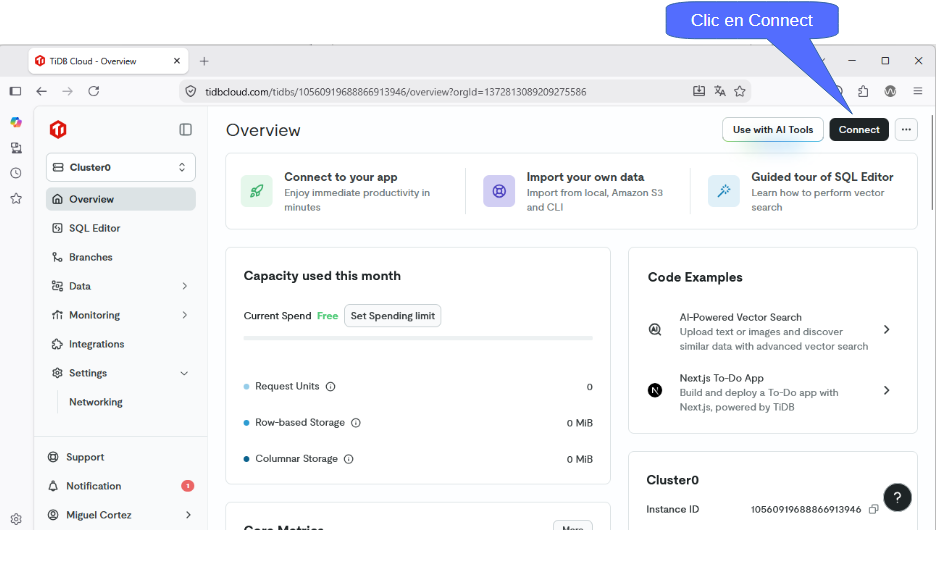
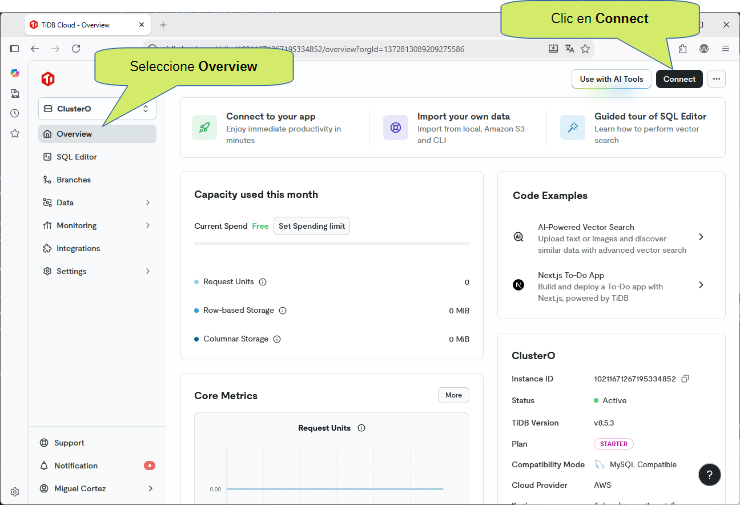
Actualización de 04_TiDBConfiguracionesBD.md

diff --git a/05_imagenes/04_TiDBConfiguracionesBD.md b/05_imagenes/04_TiDBConfiguracionesBD.md
@@ -4,15 +4,12 @@ Actualización: `23/09/2026`
 
 ## Paso 1. Crear un recurso  
 
-:white_check_mark: Haga clic en `Crear Recurso` 
-
-**:star: Nota**. El recurso que se muestra dentro del rectángulo de color rosa es un recurso que yo creé la primera vez (usted lo estaría creando en este momento).  
-
-![image](./img/create_resource.png) 
+![Crear un nuevo recurso](./img/create_resource.png)  
 
 :white_check_mark: Las opciones marcadas con el rectángulo de color verde son las que tiene que seleccionar o escribir. En el nombre de instancia puede escribir el nombre que usted prefiera.  
 
-![image](./img/create_resource_propiedades.png) 
+![alt text](image.png)
+
 
 ## Paso 2. Clic en Connect
 
@@ -20,7 +17,7 @@ Actualización: `23/09/2026`
 - Antes de continuar, debe crear un `Cluster`.  
 - Luego, observe que debe hacer clic en **:bank: Overview**.  
 
-![image](./img/connect.png)  
+![alt text](./img/connect.png)  
 
 ## Paso 3. Generar Password
 
